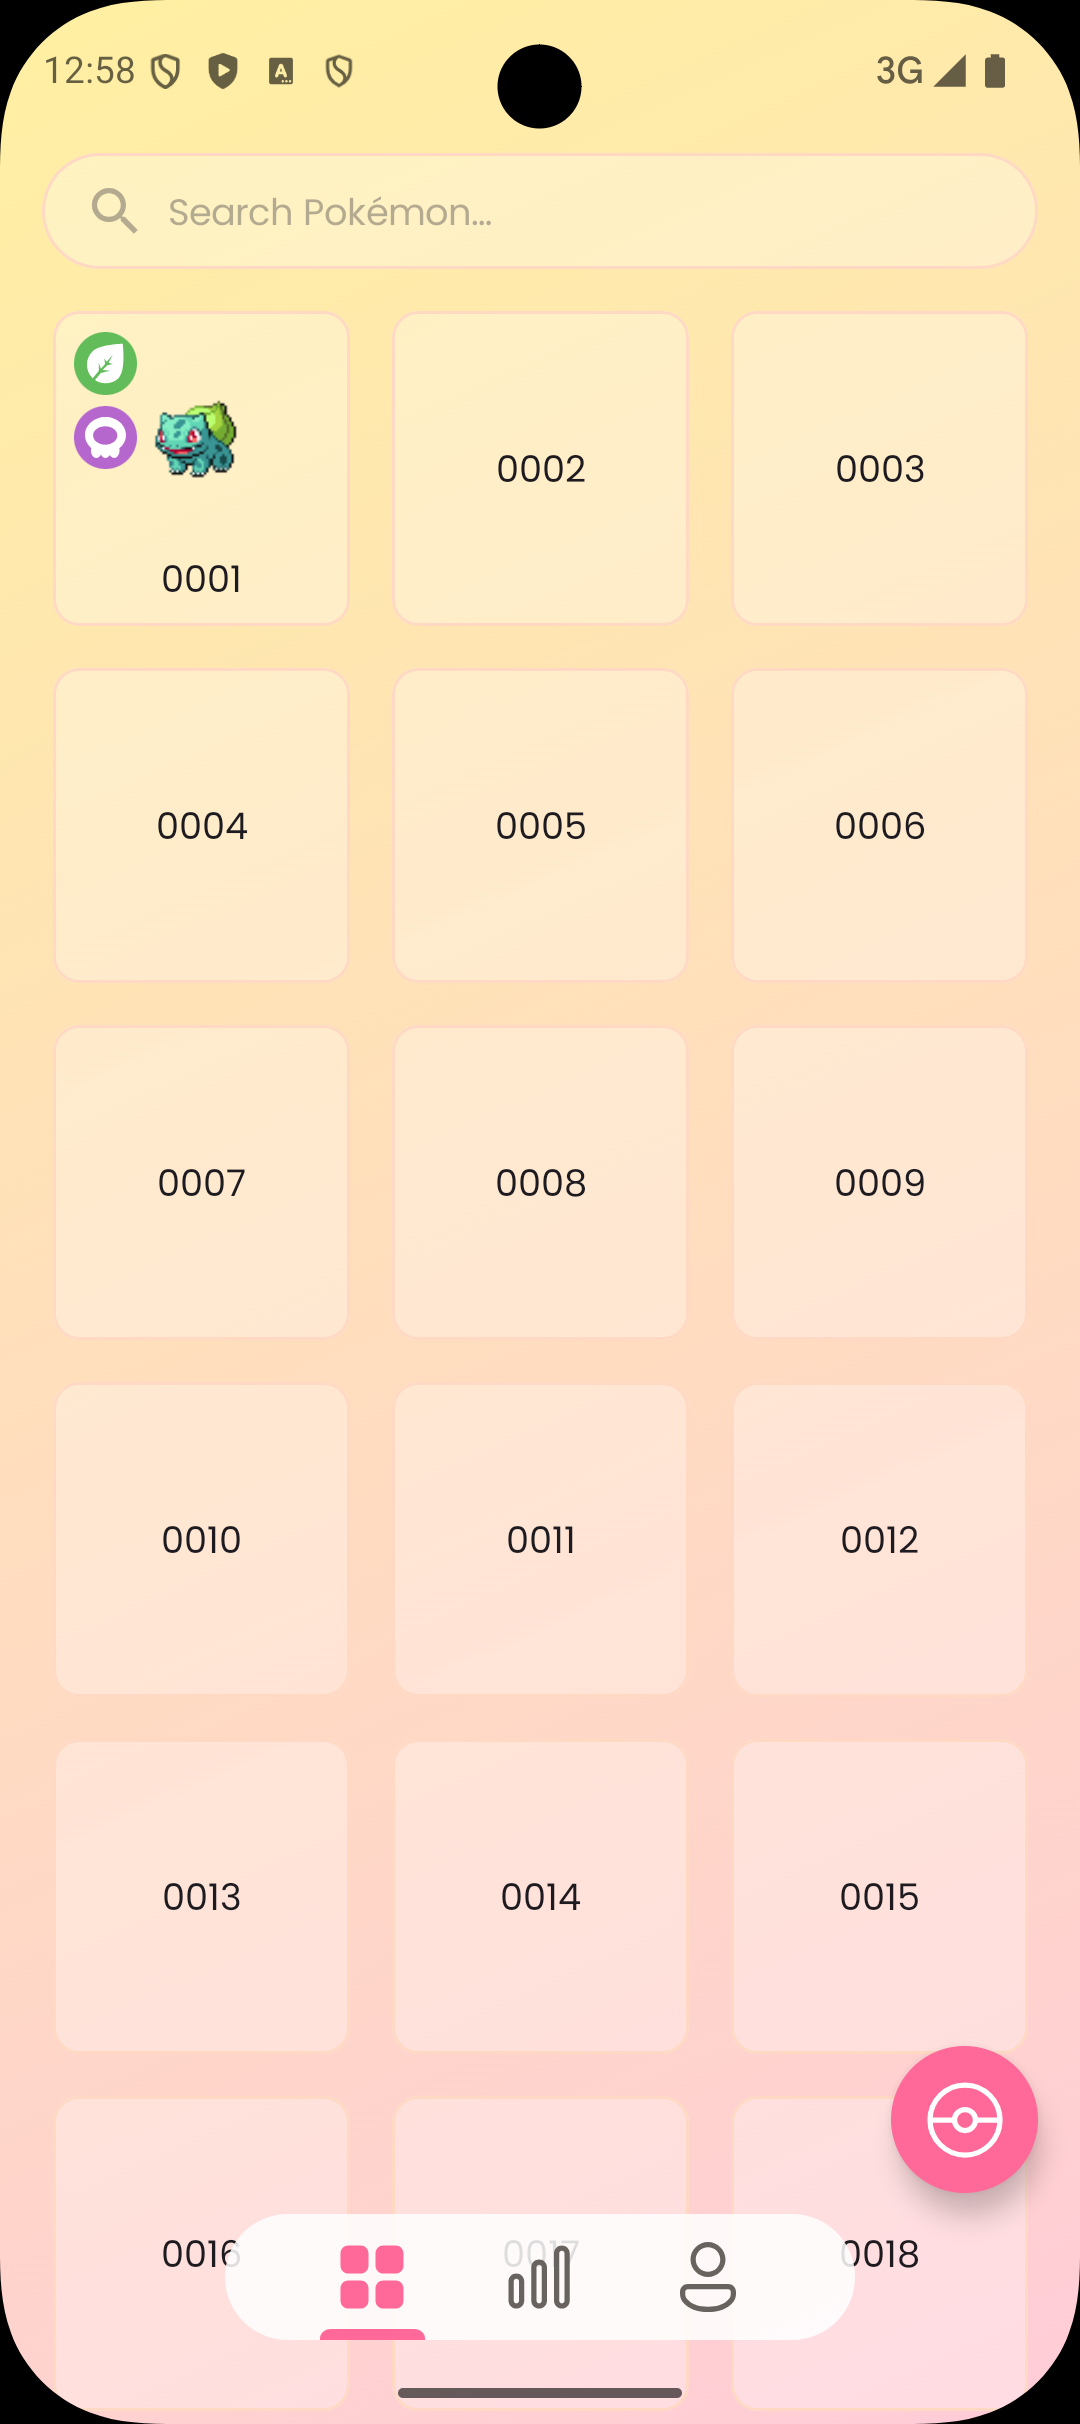
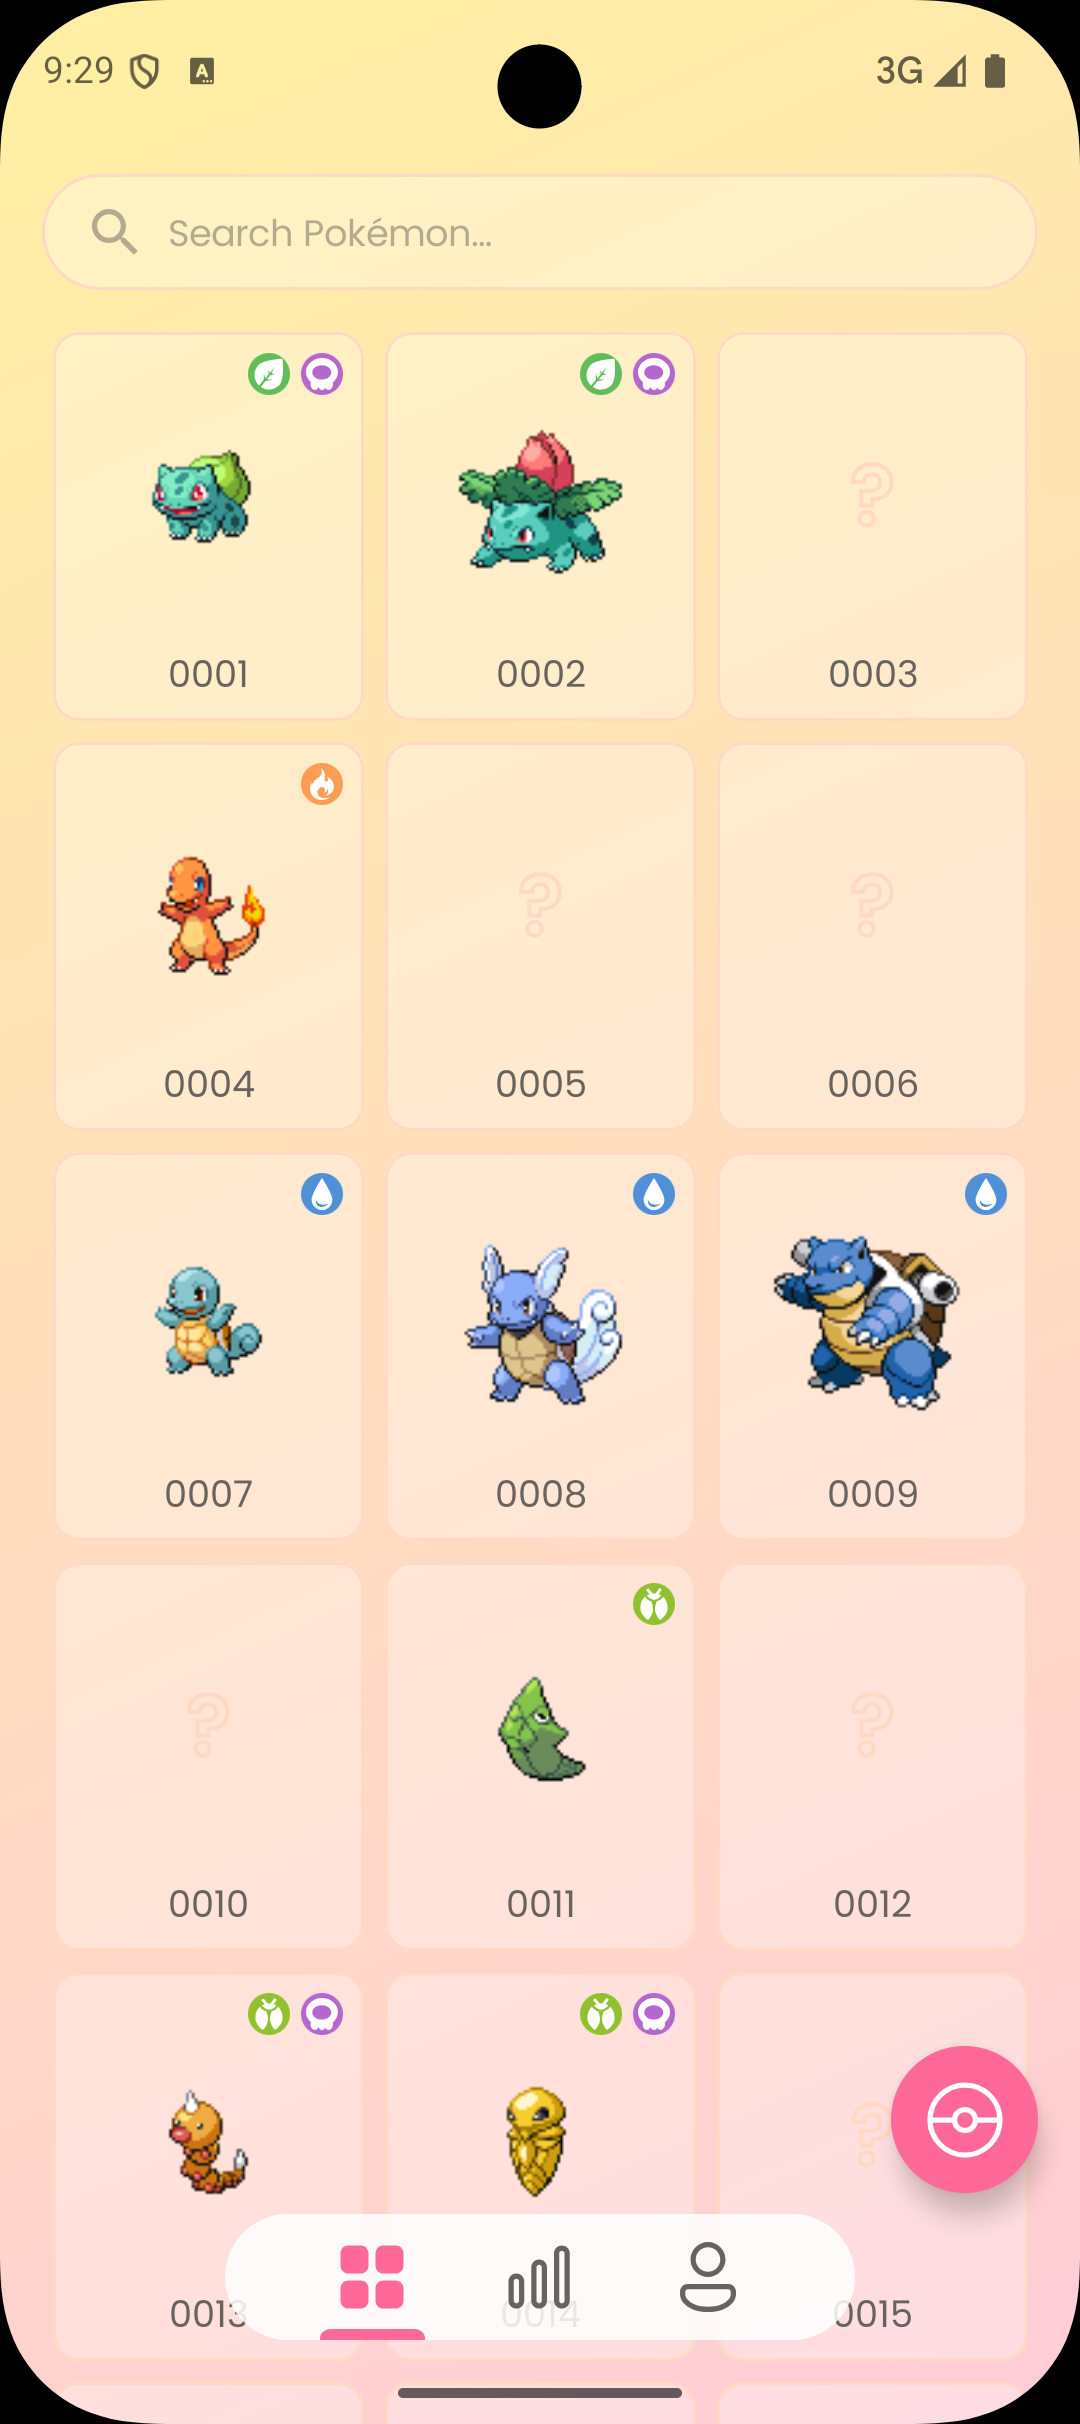
Bump version and update screenshots

diff --git a/README.md b/README.md
@@ -14,6 +14,12 @@ Snapdex is a production-quality **Pokédex-style app** built with Kotlin and Jet
   <img src="images/screen5.png" height="500" />
 </p>
 
+<p align="center">
+  <img src="images/screen6.png" height="500" />
+  <img src="images/screen7.png" height="500" />
+  <img src="images/screen8.png" height="500" />
+</p>
+
 *Design by [Rui Zhang](https://www.linkedin.com/in/ruizhang77); Pokemon detail page heavily inspired by Figma design by [Junior Savaria](https://www.figma.com/community/file/1202971127473077147)*
 
 ## 🚀 Features
